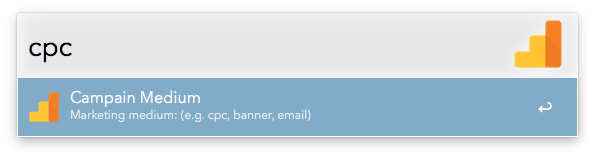
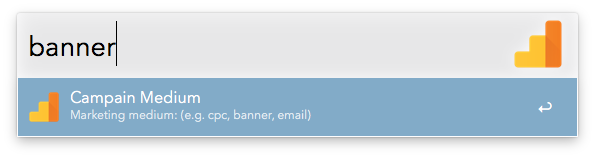
updated screenshots

Changed region(s): [[0.0303, 0.2278, 0.2118, 0.4051]]

diff --git a/readme.md b/readme.md
@@ -20,6 +20,8 @@ If you use [Alfred](https://www.alfredapp.com/) and track campaigns via [Google 
 ![shorten](screenshots/shorten.png)
 ![notification](screenshots/notification.png)
 
+The URL is ready to paste: [https://sammich.shop?utm_source=github&utm_campaign=alfred_workflow&utm_medium=banner](https://sammich.shop?utm_source=github&utm_campaign=alfred_workflow&utm_medium=banner)
+
 ### URL Shortener
 
 Optional: If you'd like to use the [URL Shortener](https://developers.google.com/url-shortener/) in the workflow, you need to set your `google_api_key` in the workflow environment variables. [Here are instructions on generating your API key with Google](https://developers.google.com/url-shortener/v1/getting_started#APIKey).
